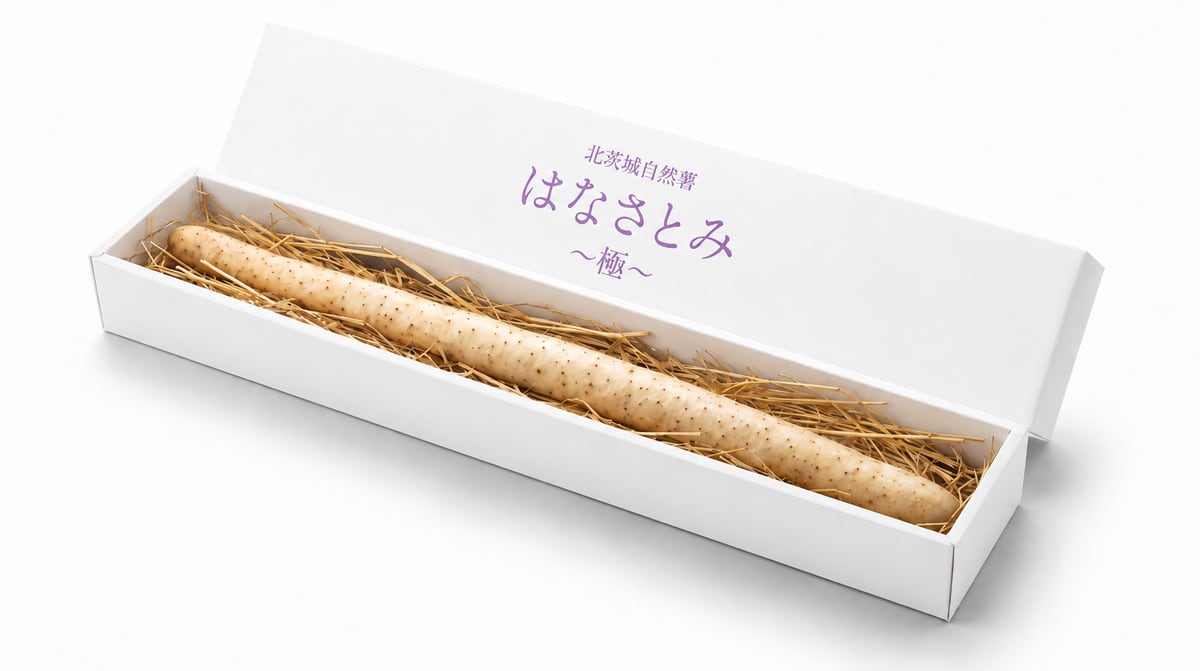
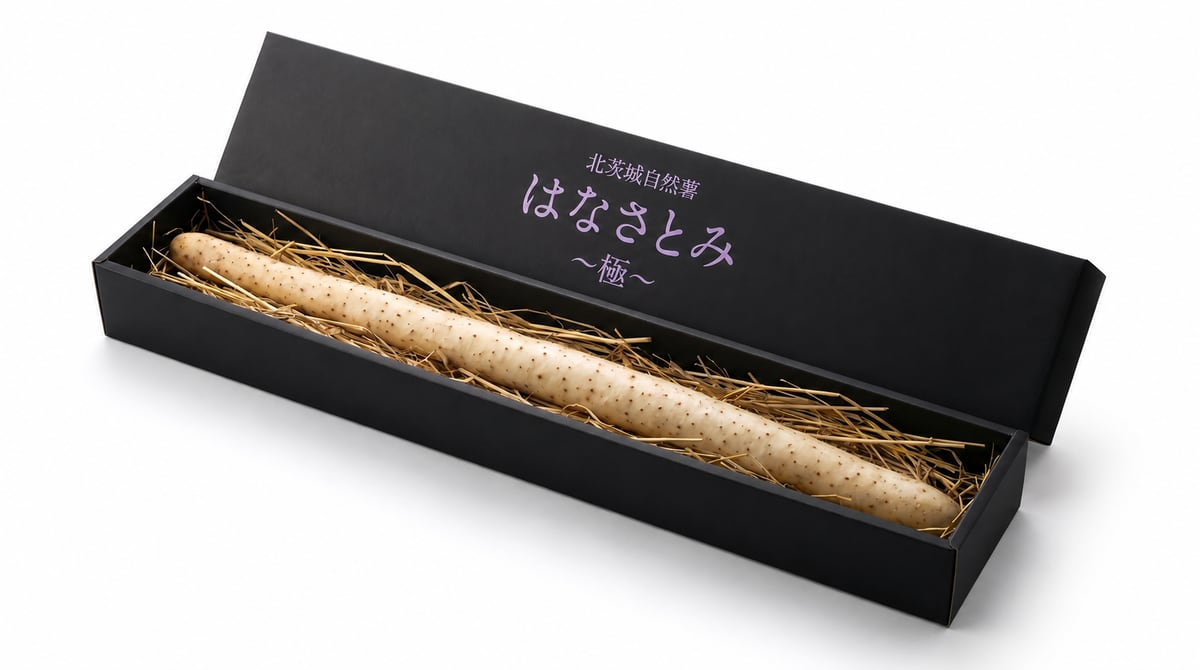
feat: 一般販売セクションの画像を黒箱パッケージ（はなさとみ 極）へ差し替え
- home-gift.jpg を黒の贈答パッケージ写真に更新（1200px幅・約56KB）。
- キャッシュバスティングを ?v=20260703 → ?v=20260703b に更新。

diff --git a/index.html b/index.html
@@ -197,7 +197,7 @@
       <a href="/coming-soon/" class="general-sale-button">販売開始のお知らせを受け取る</a>
     </div>
     <div class="general-sale-image">
-      <img src="/assets/images/home-gift.jpg?v=20260703" alt="自然薯の贈答用ギフト箱">
+      <img src="/assets/images/home-gift.jpg?v=20260703b" alt="自然薯の贈答用ギフト箱">
     </div>
   </div>
 </section>